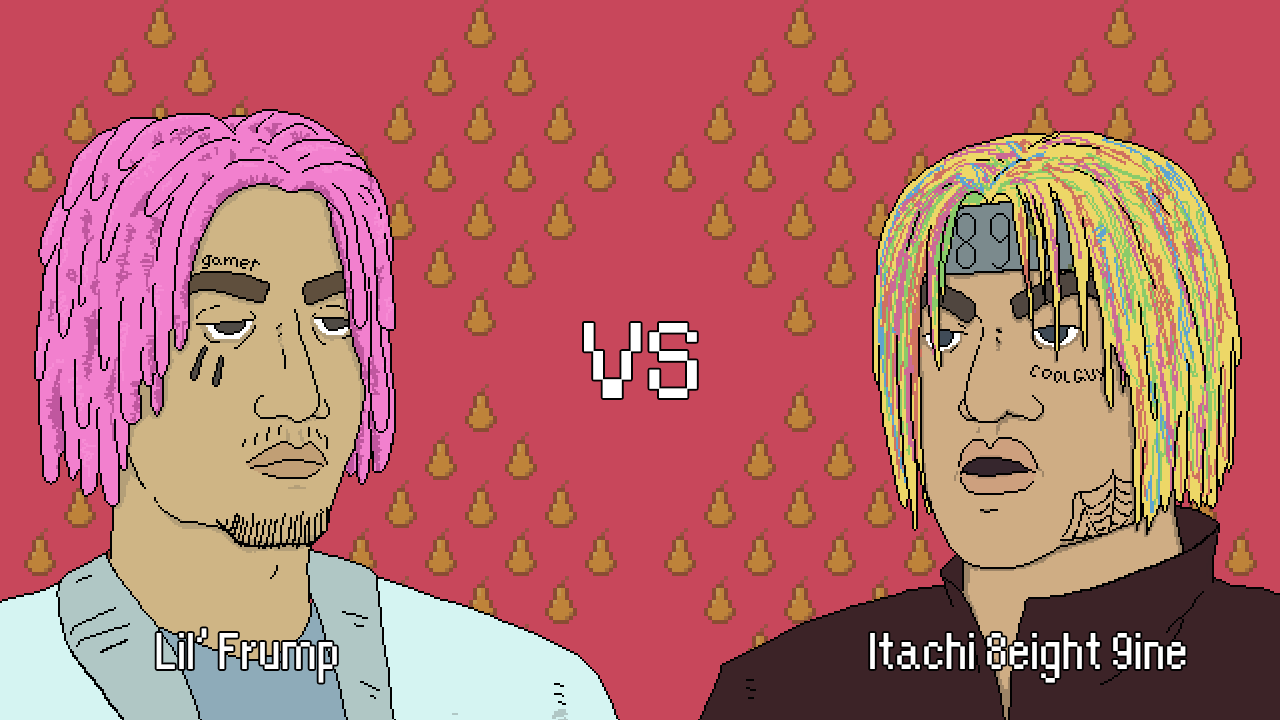
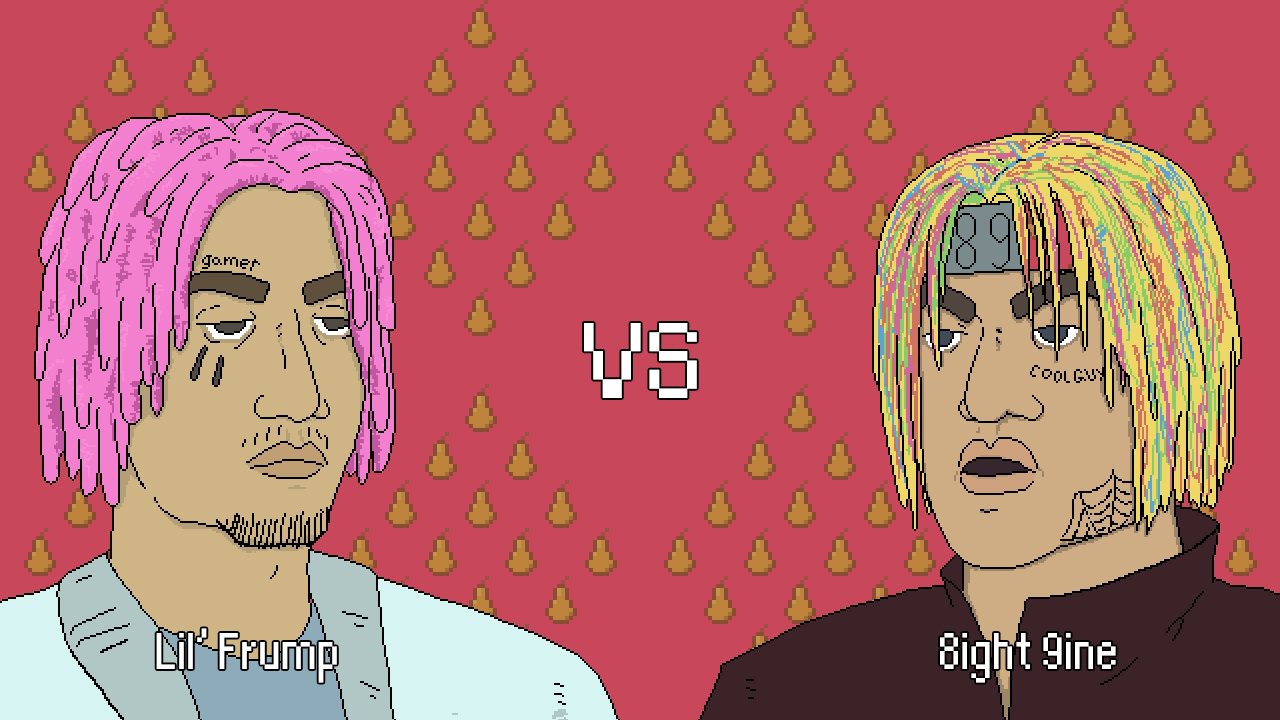
89 fixes + tweaks
- fixed 89 vs screen saying "8eight"
- tweaked 89 ability cooldowns

Changed region(s): [[0.6562, 0.8556, 0.9375, 0.9472], [0.7812, 0.275, 0.8438, 0.3667]]

diff --git a/game/bosses.js b/game/bosses.js
@@ -762,7 +762,7 @@ NinjaGuy.prototype.update = function () {
                 if (this.dashCD <= 0 && !this.lunge && !this.slash && !this.throw) {
                     this.sound.dash.play();
                     this.dash = true;
-                    this.dashCD = Math.floor(Math.random() * 75) + 105;
+                    this.dashCD = Math.floor(Math.random() * 75) + 115;
                     this.acceleration = 300;
                     this.maxSpeed = 700;
                     this.hitCD = 30;
@@ -781,14 +781,14 @@ NinjaGuy.prototype.update = function () {
                 }
                 else if (dist > 150 && this.throwCD <= 0 && !this.dash && !this.lunge && !this.slash) {
                     this.throw = true;
-                    this.throwCD = 150;
+                    this.throwCD = 210;
                     this.maxSpeed = 100;
                 }
                 else if (dist < 150 && this.slashCD <= 0 && !this.dash && !this.lunge && !this.throw) {
                     this.landedBlow = false;
                     this.sound.slash.play();
                     this.slash = true;
-                    this.slashCD = 105;
+                    this.slashCD = Math.floor(Math.random() * 35) + 95;
                     this.maxSpeed = 160;
                 }
                 if (this.lunge && this.hit(ent) && ent.hitCD <= 0) {
@@ -798,7 +798,7 @@ NinjaGuy.prototype.update = function () {
                     ent.hitCD = 10;
                     ent.health.current -= 3;
                 }
-                else if (this.throw && this.throwCD == 135) {
+                else if (this.throw && this.throwCD == 195) {
                     this.sound.throw.play();
                     var throwRot = this.rotation - Math.atan(23 / 130);
                     var difX = Math.cos(throwRot) * 132;
